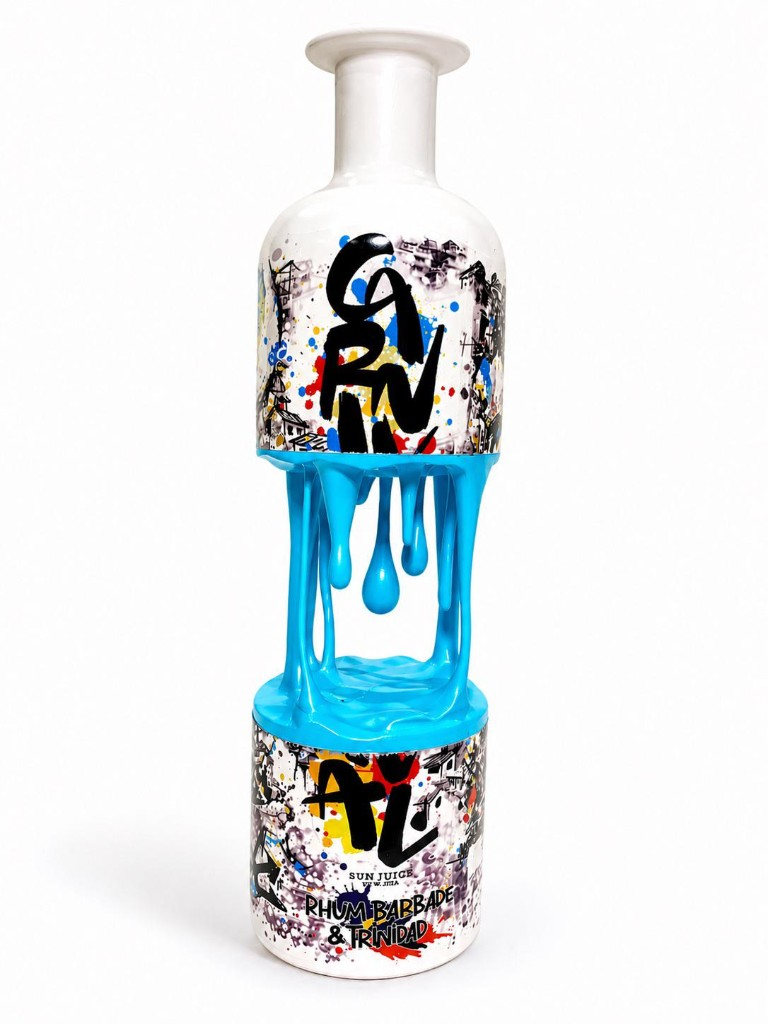
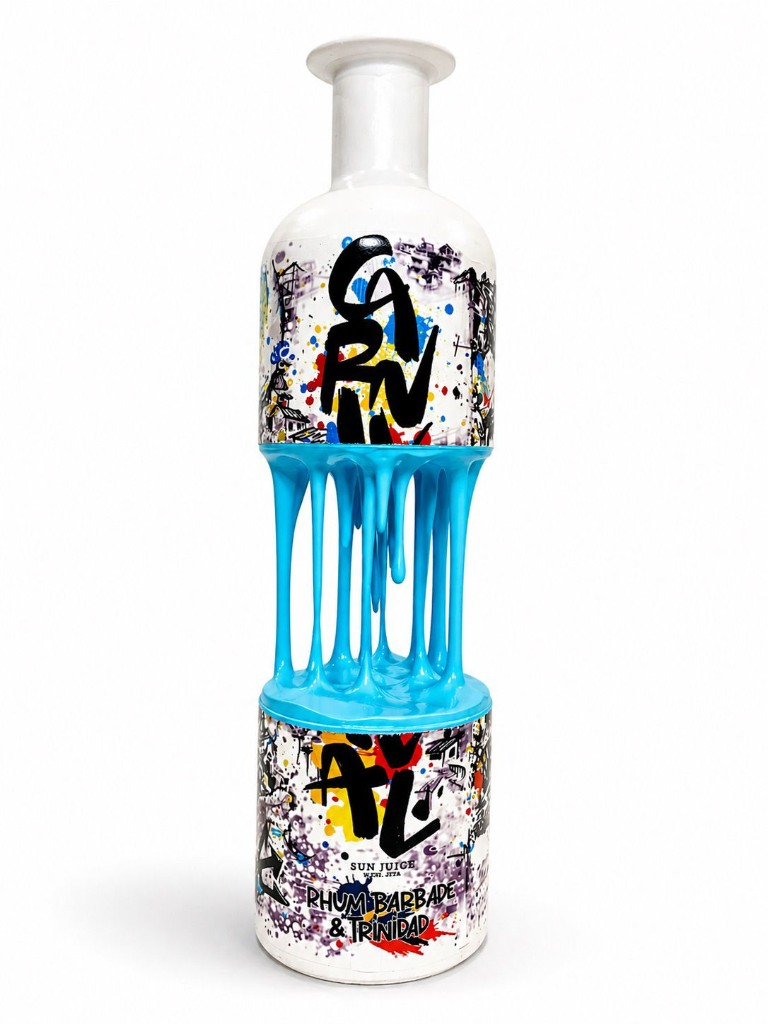
Passer à 5 modèles (DROP), 50 pièces par série et 250 au total.
Ajoute la série DROP, met à jour stock, grilles, textes et visuels produit.

Changed region(s): [[0.3125, 0.2188, 0.6562, 0.9688], [0.375, 0.0312, 0.625, 0.1875]]

diff --git a/index.html b/index.html
@@ -4,7 +4,7 @@
 <meta charset="UTF-8" />
 <meta name="viewport" content="width=device-width, initial-scale=1.0" />
 <title>Carnival × Ezéa — Stop the Motion. Own the Moment.</title>
-<meta name="description" content="Édition limitée 100 pièces. Sculptures street art en résine époxy coulée à la main. Carnival Sun Juice × Ezéa, approuvées par JoeyStarr." />
+<meta name="description" content="Édition limitée 250 pièces. Sculptures street art en résine époxy coulée à la main. Carnival Sun Juice × Ezéa, approuvées par JoeyStarr." />
 
 <!-- ════════════ GOOGLE FONTS ════════════ -->
 <link rel="preconnect" href="https://fonts.googleapis.com" />
@@ -445,7 +445,7 @@ img[src=""],img:not([src]){min-height:1px;}
   color:rgba(255,255,255,0.45);margin-top:12px;letter-spacing:.04em;
 }
 .piece-grid{
-  display:grid;grid-template-columns:repeat(5,1fr);
+  display:grid;grid-template-columns:repeat(10,1fr);
   gap:12px;max-width:560px;margin:0 auto;
 }
 .piece-cell{
@@ -891,7 +891,7 @@ body.cursor-hover #cursor-ring{transform:scale(1.5);border-color:var(--accent);b
   #series{padding:80px 20px;}
   .joey-text-col{padding:40px 24px;}
   .cta-series{width:100%;justify-content:center;}
-  .piece-grid{gap:8px;}
+  .piece-grid{gap:8px;grid-template-columns:repeat(5,1fr);}
   .piece-cell{font-size:.85rem;}
   .piece-legend{gap:14px;font-size:.56rem;}
   .admin-card{padding:24px 16px;}
@@ -955,12 +955,12 @@ body.cursor-hover #cursor-ring{transform:scale(1.5);border-color:var(--accent);b
   <canvas id="particles"></canvas>
   <div class="hero-inner">
     <div class="hero-text">
-      <p class="eyebrow">ÉDITION LIMITÉE · 100 PIÈCES · FRANCE</p>
+      <p class="eyebrow">ÉDITION LIMITÉE · 250 PIÈCES · FRANCE</p>
       <h1>
         <span class="l1">STOP THE MOTION.</span>
         <span class="l2">OWN THE MOMENT.</span>
       </h1>
-      <p class="hero-sub">4 séries. 25 pièces chacune. Une sculpture Carnival figée dans la résine, approuvée par JoeyStarr.</p>
+      <p class="hero-sub">5 séries. 50 pièces chacune. Une sculpture Carnival figée dans la résine, approuvée par JoeyStarr.</p>
       <button class="cta-hero" id="cta-discover">Découvrir les séries <span class="arrow">↓</span></button>
     </div>
     <div class="hero-visual">
@@ -980,11 +980,11 @@ body.cursor-hover #cursor-ring{transform:scale(1.5);border-color:var(--accent);b
 <!-- ════════════ SECTION: STATS ════════════ -->
 <section id="stats">
   <div class="stats-row">
-    <div class="stat reveal"><div class="num" data-count="100">0</div><div class="lbl">Pièces au total</div></div>
+    <div class="stat reveal"><div class="num" data-count="250">0</div><div class="lbl">Pièces au total</div></div>
     <div class="stat-sep"></div>
-    <div class="stat reveal"><div class="num" data-count="4">0</div><div class="lbl">Séries</div></div>
+    <div class="stat reveal"><div class="num" data-count="5">0</div><div class="lbl">Séries</div></div>
     <div class="stat-sep"></div>
-    <div class="stat reveal"><div class="num" data-count="25">0</div><div class="lbl">Pièces par série</div></div>
+    <div class="stat reveal"><div class="num" data-count="50">0</div><div class="lbl">Pièces par série</div></div>
     <div class="stat-sep"></div>
     <div class="stat reveal"><div class="num">15j</div><div class="lbl">Délai fabrication</div></div>
   </div>
@@ -994,7 +994,7 @@ body.cursor-hover #cursor-ring{transform:scale(1.5);border-color:var(--accent);b
 <section id="series">
   <div class="series-wrap">
     <div class="series-head reveal">
-      <p class="eyebrow">4 CRÉATIONS ORIGINALES</p>
+      <p class="eyebrow">5 CRÉATIONS ORIGINALES</p>
       <h2>CHOISISSEZ VOTRE SÉRIE</h2>
     </div>
 
@@ -1003,6 +1003,7 @@ body.cursor-hover #cursor-ring{transform:scale(1.5);border-color:var(--accent);b
       <button class="series-tab" data-serie="splash">SPLASH</button>
       <button class="series-tab" data-serie="brush">BRUSH</button>
       <button class="series-tab" data-serie="spin">TWISTER</button>
+      <button class="series-tab" data-serie="drop">DROP</button>
     </div>
 
     <div class="series-body">
@@ -1018,7 +1019,7 @@ body.cursor-hover #cursor-ring{transform:scale(1.5);border-color:var(--accent);b
             <button class="swatch active" data-color="jaune" aria-label="Jaune"></button>
             <button class="swatch" data-color="rose" aria-label="Rose"></button>
           </div>
-          <div class="avail-badge" id="avail-badge">JAUNE — 25 / 25 pièces disponibles</div>
+          <div class="avail-badge" id="avail-badge">JAUNE — 50 / 50 pièces disponibles</div>
         </div>
       </div>
 
@@ -1029,7 +1030,7 @@ body.cursor-hover #cursor-ring{transform:scale(1.5);border-color:var(--accent);b
         <div class="series-specs">
           <span class="k">MATIÈRE</span><span class="v">Résine époxy main</span>
           <span class="k">FORMAT</span><span class="v">25 cm hauteur</span>
-          <span class="k">ÉDITION</span><span class="v">25 pièces numérotées</span>
+          <span class="k">ÉDITION</span><span class="v">50 pièces numérotées</span>
           <span class="k">ORIGINE</span><span class="v">Fabriquée en France</span>
         </div>
         <img class="spec-stamp img-stamp" src="assets/stamp-joey.png" alt="Approved by JoeyStarr" />
@@ -1043,11 +1044,11 @@ body.cursor-hover #cursor-ring{transform:scale(1.5);border-color:var(--accent);b
     <!-- ── APERÇU DISPONIBILITÉ NUMÉROS ── -->
     <div class="piece-section reveal">
       <div class="piece-head">
-        <p class="eyebrow">VOTRE PIÈCE NUMÉROTÉE · 1 — 25</p>
+        <p class="eyebrow">VOTRE PIÈCE NUMÉROTÉE · 1 — 50</p>
         <h3 class="piece-title">DISPONIBILITÉ DES NUMÉROS</h3>
         <p class="piece-sub" id="piece-sub">Cliquez « Ajouter au panier » pour choisir votre numéro</p>
       </div>
-      <div class="piece-grid preview" id="piece-grid"><!-- 25 cases injectées en JS --></div>
+      <div class="piece-grid preview" id="piece-grid"><!-- 50 cases injectées en JS --></div>
       <div class="piece-legend">
         <span><i class="lg lg-free"></i> Disponible</span>
         <span><i class="lg lg-sel"></i> Votre choix</span>
@@ -1084,9 +1085,9 @@ Un symbole rare de fête, de liberté et de créativité.</p>
 <!-- ════════════ SECTION: RARÉFACTION ════════════ -->
 <section id="scarcity">
   <p class="scarcity-top">ÉDITION NON RÉÉDITÉE</p>
-  <div class="scarcity-num" id="scarcity-num">100</div>
+  <div class="scarcity-num" id="scarcity-num">250</div>
   <p class="scarcity-label">PIÈCES DISPONIBLES</p>
-  <p class="scarcity-precision">25 par série · 4 séries · non renouvelé</p>
+  <p class="scarcity-precision">50 par série · 5 séries · non renouvelé</p>
   <button class="cta-scarcity" id="cta-scarcity-cart" type="button">AJOUTER AU PANIER — 250€</button>
 </section>
 
@@ -1115,6 +1116,7 @@ Un symbole rare de fête, de liberté et de créativité.</p>
           <option value="splash">SPLASH — Éclaboussure figée</option>
           <option value="brush">BRUSH — Trait de pinceau</option>
           <option value="spin">TWISTER — Tornado spirale</option>
+          <option value="drop">DROP — Goutte suspendue</option>
         </select>
         <p class="modal-color-label">Couleur</p>
         <div class="modal-swatches" id="modal-swatches">
@@ -1239,15 +1241,15 @@ Tous droits réservés.</div>
 // CONFIGURATION — MODIFIER CES VALEURS
 // ═══════════════════════════════════════
 
-const PIECES_RESTANTES = 100; // total affiché dans section raréfaction (texte marketing)
+const PIECES_RESTANTES = 250; // total affiché dans section raréfaction (texte marketing)
 
-const TOTAL_PER_MODEL = 25;
+const TOTAL_PER_MODEL = 50;
 
 // ── DONNÉES SÉRIES ──
 const COLOR_HEX = { cyan:'#00BFFF', vert:'#5FD12A', jaune:'#F5C800', rose:'#FF1493' };
 const COLOR_LABEL = { cyan:'CYAN', vert:'VERT', jaune:'JAUNE', rose:'ROSE' };
 const COLOR_ORDER = ['cyan', 'vert', 'jaune', 'rose'];
-const SERIE_ORDER = ['drip', 'splash', 'brush', 'spin'];
+const SERIE_ORDER = ['drip', 'splash', 'brush', 'spin', 'drop'];
 const COLOR_STEP_MS = 2000;
 const PRELOADER_CLOSE_MS = 2800;
 
@@ -1332,6 +1334,10 @@ const SERIES = {
   spin: {
     name:'TWISTER', dominant:'rose',
     desc:"Un tourbillon de résine qui monte en spirale, énergie pure et mouvement suspendu. La force du Carnival solidifiée dans la matière."
+  },
+  drop: {
+    name:'DROP', dominant:'cyan',
+    desc:"La goutte parfaite figée entre deux instants. Un filet de résine suspendu qui s'épanouit en goutte au sommet du socle, entre chute et éclat."
   },
 };
 
@@ -1573,7 +1579,7 @@ function updateBadge(serie, color){
   availBadge.textContent = COLOR_LABEL[color] + ' — ' + avail + ' / ' + TOTAL_PER_MODEL + ' pièces disponibles';
 }
 
-// ── GRILLE LOTO : rendu des 25 cases pour le modèle actif ──
+// ── GRILLE LOTO : rendu des 50 cases pour le modèle actif ──
 const pieceGrid = document.getElementById('piece-grid');
 const pieceSub = document.getElementById('piece-sub');
 const pieceSoldout = document.getElementById('piece-soldout');

diff --git a/lib/constants.js b/lib/constants.js
@@ -1,13 +1,14 @@
-const SERIES_KEYS = ['drip', 'splash', 'brush', 'spin'];
-const TOTAL_PER_MODEL = 25;
+const SERIES_KEYS = ['drip', 'splash', 'brush', 'spin', 'drop'];
+const TOTAL_PER_MODEL = 50;
 const PRICE_CENTS = 25000; // 250 €
 const HOLD_MINUTES = 30;
 
 const DEFAULT_INVENTORY = {
-  drip: { onSale: true, pieces: { '2': 'fake', '9': 'fake', '10': 'fake', '11': 'fake', '16': 'fake', '17': 'fake', '24': 'fake' }, holds: {} },
-  splash: { onSale: true, pieces: { '3': 'fake', '4': 'fake', '7': 'fake', '9': 'fake', '13': 'fake' }, holds: {} },
-  brush: { onSale: true, pieces: { '2': 'fake', '5': 'fake', '8': 'fake', '10': 'fake', '13': 'fake', '24': 'fake' }, holds: {} },
-  spin: { onSale: true, pieces: { '7': 'fake', '10': 'fake', '15': 'fake', '16': 'fake', '20': 'fake', '25': 'fake' }, holds: {} },
+  drip: { onSale: true, pieces: { '4': 'fake', '18': 'fake', '20': 'fake', '22': 'fake', '32': 'fake', '34': 'fake', '41': 'fake', '48': 'fake' }, holds: {} },
+  splash: { onSale: true, pieces: { '6': 'fake', '8': 'fake', '14': 'fake', '18': 'fake', '26': 'fake', '33': 'fake' }, holds: {} },
+  brush: { onSale: true, pieces: { '4': 'fake', '10': 'fake', '16': 'fake', '20': 'fake', '26': 'fake', '38': 'fake', '48': 'fake' }, holds: {} },
+  spin: { onSale: true, pieces: { '14': 'fake', '20': 'fake', '30': 'fake', '32': 'fake', '40': 'fake', '50': 'fake' }, holds: {} },
+  drop: { onSale: true, pieces: { '5': 'fake', '12': 'fake', '23': 'fake', '31': 'fake', '38': 'fake', '45': 'fake' }, holds: {} },
 };
 
 const SERIES_LABELS = {
@@ -15,6 +16,7 @@ const SERIES_LABELS = {
   splash: 'SPLASH',
   brush: 'BRUSH',
   spin: 'TWISTER',
+  drop: 'DROP',
 };
 
 const COLOR_LABELS = {

diff --git a/admin.html b/admin.html
@@ -42,7 +42,7 @@ button:hover,.btn:hover{border-color:var(--accent);color:var(--accent);}
 .mini{font-size:.58rem;padding:6px 10px;}
 .toggle.on{background:var(--vert);border-color:var(--vert);color:var(--black);}
 .toggle.off{color:rgba(255,255,255,.4);}
-.grid{display:grid;grid-template-columns:repeat(13,1fr);gap:5px;max-width:560px;}
+.grid{display:grid;grid-template-columns:repeat(10,1fr);gap:5px;max-width:700px;}
 .cell{
   aspect-ratio:1;border:1px solid rgba(255,255,255,.15);background:transparent;
   font-family:'Space Mono',monospace;font-size:.58rem;color:rgba(255,255,255,.65);
@@ -78,7 +78,7 @@ a{color:var(--accent);font-family:'Space Mono',monospace;font-size:.65rem;letter
     <div class="toolbar">
       <button class="btn primary" id="save-btn">Publier en ligne</button>
       <button class="btn" id="reload-btn">Recharger</button>
-      <button class="btn" id="random-all">Aléatoire 5-7 (tous)</button>
+      <button class="btn" id="random-all">Aléatoire 10-14 (tous)</button>
       <button class="btn danger" id="logout-btn">Déconnexion</button>
     </div>
     <p class="status" id="save-status"></p>
@@ -97,9 +97,10 @@ const SERIES = {
   splash: { name: 'SPLASH', color: '#5FD12A' },
   brush: { name: 'BRUSH', color: '#00BFFF' },
   spin: { name: 'TWISTER', color: '#FF1493' },
+  drop: { name: 'DROP', color: '#5FD12A' },
 };
 const SERIES_KEYS = Object.keys(SERIES);
-const TOTAL = 25;
+const TOTAL = 50;
 let STATE = null;
 
 function setStatus(el, msg, ok) {
@@ -139,7 +140,7 @@ function cycle(key, n) {
 }
 
 function randomize(key) {
-  const target = 5 + Math.floor(Math.random() * 3);
+  const target = 10 + Math.floor(Math.random() * 5);
   const nums = new Set();
   while (nums.size < target) nums.add(1 + Math.floor(Math.random() * TOTAL));
   STATE[key].pieces = {};

diff --git a/js/shop.js b/js/shop.js
@@ -2,7 +2,8 @@
 (function shop() {
   const PRICE = 250;
   const CART_KEY = 'ezea-cart';
-  const SERIES_LABELS = { drip: 'SLIME', splash: 'SPLASH', brush: 'BRUSH', spin: 'TWISTER' };
+  const TOTAL_PER_MODEL = 50;
+  const SERIES_LABELS = { drip: 'SLIME', splash: 'SPLASH', brush: 'BRUSH', spin: 'TWISTER', drop: 'DROP' };
   const COLOR_LABELS = { cyan: 'Cyan', vert: 'Vert', jaune: 'Jaune', rose: 'Rose' };
 
   let STATE = null;
@@ -36,8 +37,8 @@
   };
 
   window.availCount = function availCount(serie) {
-    if (!STATE?.[serie]) return 25;
-    return 25 - Object.keys(STATE[serie].pieces || {}).length;
+    if (!STATE?.[serie]) return TOTAL_PER_MODEL;
+    return TOTAL_PER_MODEL - Object.keys(STATE[serie].pieces || {}).length;
   };
 
   window.isPieceTaken = function isPieceTaken(serie, n) {

diff --git a/api/checkout.js b/api/checkout.js
@@ -1,6 +1,6 @@
 const Stripe = require('stripe');
 const { placeHolds } = require('../lib/inventory');
-const { PRICE_CENTS, SERIES_LABELS, COLOR_LABELS } = require('../lib/constants');
+const { PRICE_CENTS, SERIES_LABELS, COLOR_LABELS, TOTAL_PER_MODEL } = require('../lib/constants');
 
 function getStripe() {
   const key = process.env.STRIPE_SECRET_KEY;
@@ -29,7 +29,7 @@ function validateItems(items) {
     const numero = parseInt(raw.numero, 10);
     if (!SERIES_LABELS[serie]) throw new Error(`Série invalide : ${serie}`);
     if (!COLOR_LABELS[color]) throw new Error(`Couleur invalide : ${color}`);
-    if (!Number.isInteger(numero) || numero < 1 || numero > 25) {
+    if (!Number.isInteger(numero) || numero < 1 || numero > TOTAL_PER_MODEL) {
       throw new Error(`Numéro invalide : ${numero}`);
     }
     const key = `${serie}:${numero}`;

diff --git a/README.md b/README.md
@@ -1,7 +1,7 @@
 # Carnival × Ezéa — Landing page
 
 Funnel de vente single-file pour la collaboration **Carnival Sun Juice (JoeyStarr) × Ezéa** :
-4 séries de sculptures en résine époxy, 25 pièces numérotées par série (100 au total).
+5 séries de sculptures en résine époxy, 50 pièces numérotées par série (250 au total).
 
 > **Stop the Motion. Own the Moment.**
 
@@ -9,7 +9,7 @@ Funnel de vente single-file pour la collaboration **Carnival Sun Juice (JoeyStar
 
 ```
 index.html        → la page complète (HTML + CSS + JS inline, zéro dépendance)
-assets/           → 17 images traitées (logos, sculptures, photos, tampon JoeyStarr)
+assets/           → images produit (logos, sculptures 5×4 couleurs, photos, tampon JoeyStarr)
 _build/           → outils de build (non requis pour la prod)
   build.js        → pipeline de traitement d'images (détourage, keying logos)
   serve.js        → petit serveur statique local pour la preview
@@ -30,9 +30,9 @@ node serve.js        # sert le projet sur http://localhost:4321
 
 ## Gestion des pièces (réservations + admin)
 
-- **Grille loto** : chaque série affiche 25 cases numérotées. Les pièces réservées
+- **Grille loto** : chaque série affiche 50 cases numérotées. Les pièces réservées
   sont cochées/hachurées. Le visiteur choisit son numéro → pré-rempli dans la modale.
-- **Réservations placeholder** : au lancement, 5 à 7 pièces par série sont marquées
+- **Réservations placeholder** : au lancement, 10 à 14 pièces par série sont marquées
   réservées (objet `STATE_SEED` en haut du `<script>`) pour que le site ne soit pas vierge.
 - **Admin** : lien discret `· admin ·` en bas à gauche, ou ajouter `#admin` à l'URL.
   Permet de mettre une série en/hors vente, réserver/libérer/vendre chaque pièce,